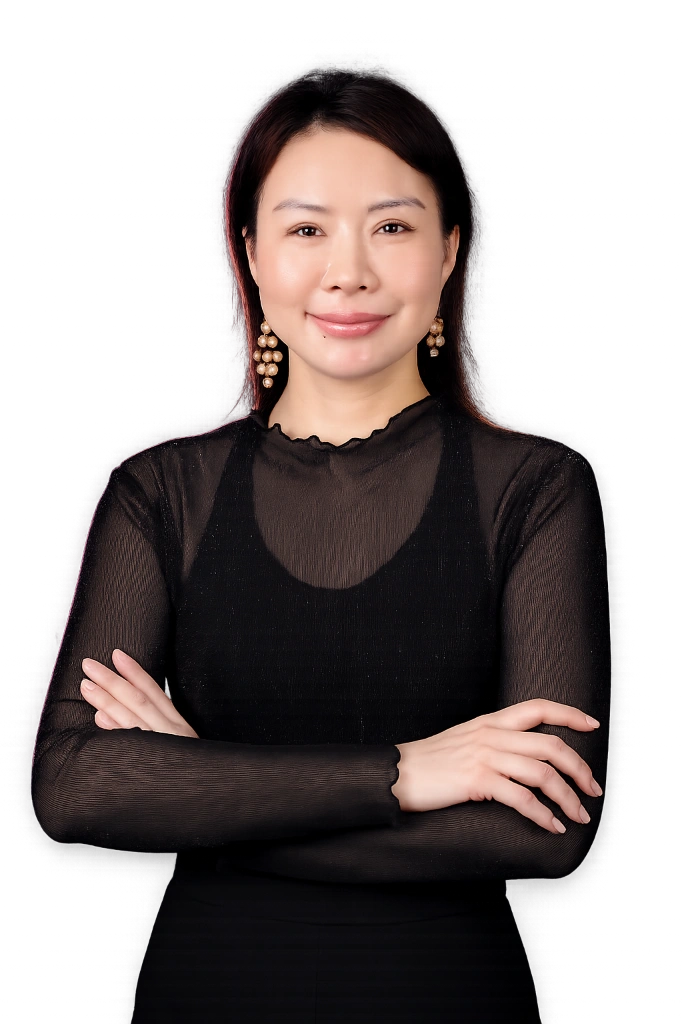
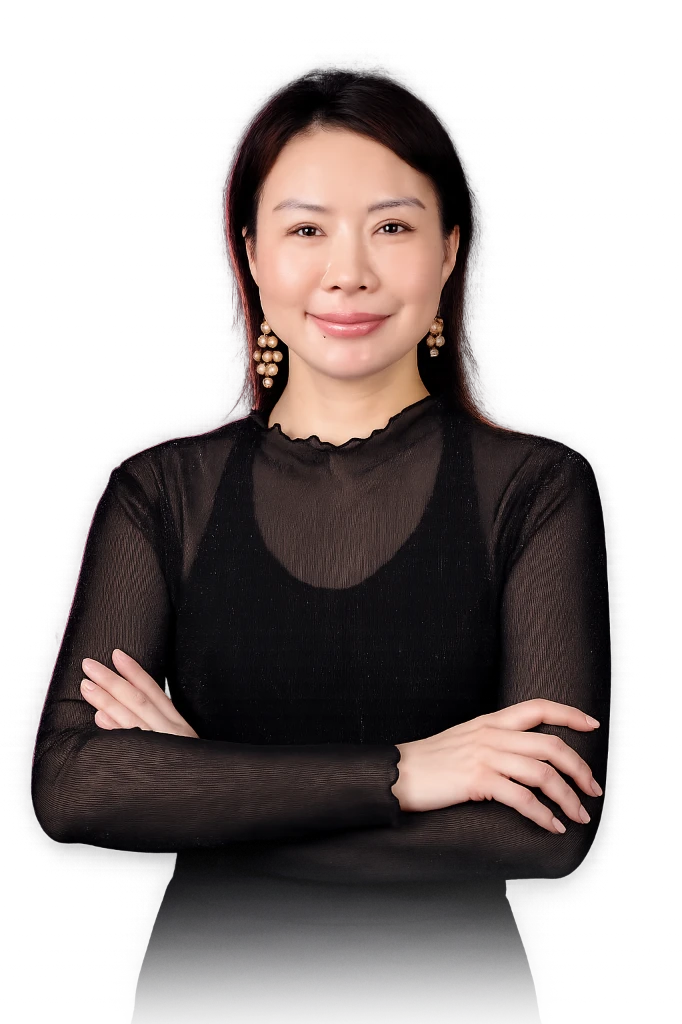
Update founder portrait photo and bold company names in Professional Experience biography

Changed region(s): [[0.1848, 0.8438, 0.8006, 1.0]]

diff --git a/frontend/src/App.tsx b/frontend/src/App.tsx
@@ -463,7 +463,7 @@ function App() {
                 <div className="about-founder-bio">
                   <h3>Professional Experience</h3>
                   <p className="about-paragraph">
-                    Throughout her 22-year career in the travel industry, Davina Horn has worked with leading travel agencies and international travel companies, including K.U. Travel, Amary Travel (Representative of Carlson Wagonlit Travel), Korean Air, and EXO Travel. These roles have provided her with extensive experience in airline reservations, corporate travel, hotel bookings, and travel management, forming the foundation of the professional expertise she brings to every client at Chantrea Travel.
+                    Throughout her 22-year career in the travel industry, Davina Horn has worked with leading travel agencies and international travel companies, including <strong>K.U. Travel</strong>, <strong>Amary Travel</strong> (Representative of <strong>Carlson Wagonlit Travel</strong>), <strong>Korean Air</strong>, and <strong>EXO Travel</strong>. These roles have provided her with extensive experience in airline reservations, corporate travel, hotel bookings, and travel management, forming the foundation of the professional expertise she brings to every client at <strong>Chantrea Travel</strong>.
                   </p>
                 </div>
               </div>